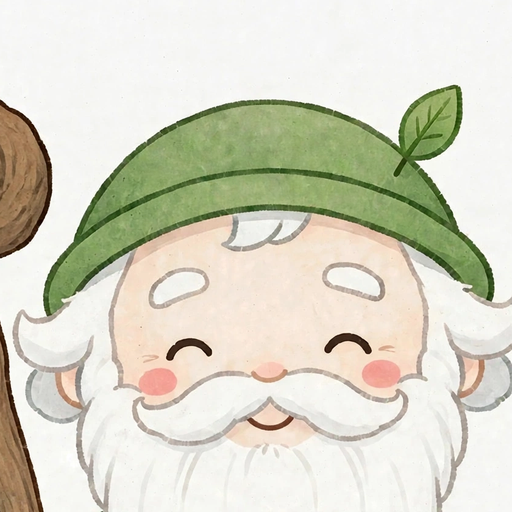
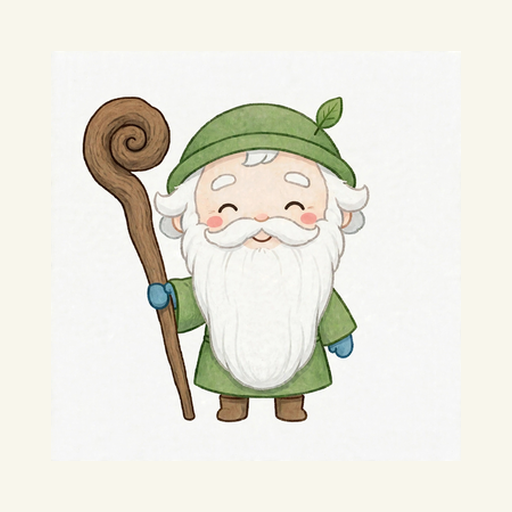
アイコンを全身の番人（引きの構図）に差し替え＋参照に ?v=2

diff --git a/index.html b/index.html
@@ -5,9 +5,9 @@
 <meta name="viewport" content="width=device-width, initial-scale=1.0">
 <title>森のほっとニュース｜今日の、いいニュース。</title>
 <meta name="description" content="集まれ水女子の森からお届けする、心が温まるニュース、希望が持てるニュース、くすっと笑えるニュース。毎日の生活に、ご機嫌を。日本と世界から、毎朝お届けします。">
-<link rel="icon" href="favicon.ico">
-<link rel="apple-touch-icon" href="icon-180.png">
-<link rel="manifest" href="manifest.json">
+<link rel="icon" href="favicon.ico?v=2">
+<link rel="apple-touch-icon" href="icon-180.png?v=2">
+<link rel="manifest" href="manifest.json?v=2">
 <meta name="theme-color" content="#4a7c59">
 <meta property="og:type" content="website">
 <meta property="og:site_name" content="森のほっとニュース">
